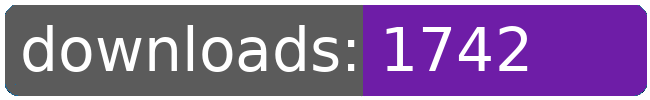
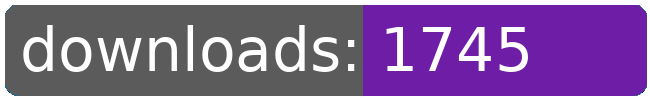
dl log written

Changed region(s): [[0.7692, 0.24, 0.8308, 0.72]]

diff --git a/README.md b/README.md
@@ -263,8 +263,8 @@
 		<td>1703</td>
 		<td>1724</td>
 		<td>1740</td>
-		<td>1742</td>
-		<td>+ 2</td>
+		<td>1745</td>
+		<td>+ 5</td>
 	</tr>
 	<tr>
 		<td></td>
@@ -274,8 +274,8 @@
 		<td></td>
 		<td></td>
 		<td></td>
-		<td>52251</td>
-		<td>68</td>
+		<td>52254</td>
+		<td>71</td>
 	</tr>
 </table>
 </sub></sup>
@@ -465,8 +465,8 @@
 		<td>1703</td>
 		<td>1724</td>
 		<td>1740</td>
-		<td>1742</td>
-		<td>+ 2</td>
+		<td>1745</td>
+		<td>+ 5</td>
 	</tr>
 	<tr>
 		<td>purchaseable.androids</td>
@@ -553,8 +553,8 @@
 		<td></td>
 		<td></td>
 		<td></td>
-		<td>52251</td>
-		<td>68</td>
+		<td>52254</td>
+		<td>71</td>
 	</tr>
 </table>
 </sub></sup>
@@ -562,7 +562,6 @@
 <table>
 	<tr>
 		<td> </td>
-		<td>2026-02-23</td>
 		<td>2026-02-24</td>
 		<td>2026-02-25</td>
 		<td>2026-02-26</td>
@@ -571,10 +570,10 @@
 		<td>2026-03-01</td>
 		<td>2026-03-02</td>
 		<td>2026-03-03</td>
+		<td>2026-03-04</td>
 	</tr>
 	<tr>
 		<td>page views</td>
-		<td>47</td>
 		<td>38</td>
 		<td>23</td>
 		<td>18</td>
@@ -583,10 +582,10 @@
 		<td>41</td>
 		<td>10</td>
 		<td>42</td>
+		<td>4</td>
 	</tr>
 	<tr>
 		<td>unique visitors</td>
-		<td>6</td>
 		<td>11</td>
 		<td>9</td>
 		<td>10</td>
@@ -595,6 +594,7 @@
 		<td>11</td>
 		<td>6</td>
 		<td>8</td>
+		<td>3</td>
 	</tr>
 </table>
 <br>
@@ -608,8 +608,8 @@
 	</tr>
 	<tr>
 		<td>2025-10-15</td>
-		<td>4261</td>
-		<td>1215</td>
+		<td>4265</td>
+		<td>1218</td>
 		<td>192</td>
 		<td>21</td>
 	</tr>
@@ -622,8 +622,8 @@
 	</tr>
 	<tr>
 		<td>141</td>
-		<td>30.22</td>
-		<td>8.62</td>
+		<td>30.25</td>
+		<td>8.64</td>
 		<td></td>
 		<td></td>
 	</tr>
